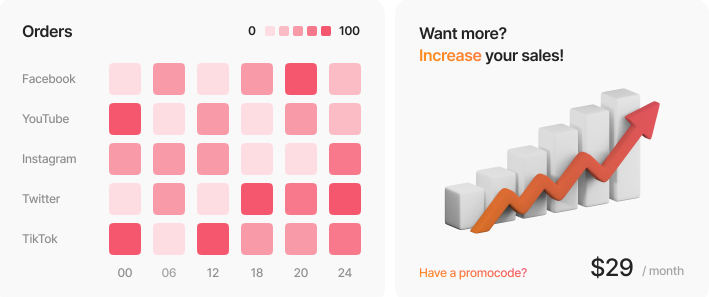
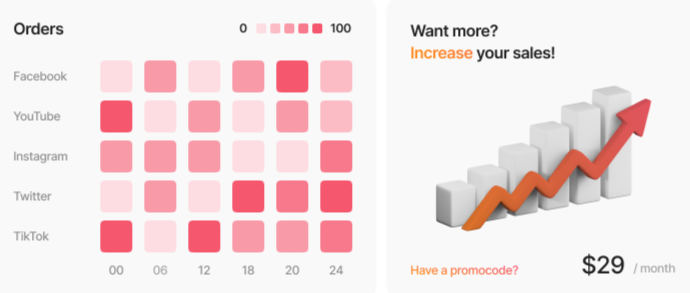
Added New Images

diff --git a/style.css b/style.css
@@ -10,7 +10,7 @@ nav {
   top: 0;
   left: 0;
   height: 100%;
-  width: 250px;
+  width: 300px;
   padding: 10px 14px;
   background-color: #fff;
   border-right: 1px solid rgba(0, 0, 0, 0.1);
@@ -19,28 +19,14 @@ nav .logo-name {
   display: flex;
   align-items: center;
 }
-nav .logo-image {
-  display: flex;
-  justify-content: center;
-  min-width: 45px;
-}
-nav .logo-image img {
-  width: 40px;
-  object-fit: cover;
-  border-radius: 50%;
-}
 nav .logo-name .logo_name {
-  font-size: 22px;
+  font-size: 24px;
   font-weight: 600;
   color: #333;
   margin-left: 14px;
 }
 nav .menu-items {
-  margin-top: 40px;
-  height: calc(100% - 90px);
-  display: flex;
-  flex-direction: column;
-  justify-content: space-between;
+  margin-top: 65px;
 }
 .menu-items li {
   list-style: none;
@@ -58,14 +44,8 @@ nav .menu-items {
   background-color: #232323;
 }
 .menu-items li a i {
-  font-size: 24px;
-  min-width: 45px;
-  height: 100%;
-  display: flex;
   padding-left: 15px;
   margin-right: 10px;
-  align-items: center;
-  justify-content: center;
   color: #707070;
 }
 .menu-items li a .link-name {
@@ -78,6 +58,7 @@ nav .menu-items {
   color: #fff;
 }
 
+/* Home Dashboard Section */
 section {
   padding: 0 20px;
 }
@@ -85,13 +66,8 @@ section {
   position: relative;
   background: #f5f5f5;
   min-height: 100vh;
-  width: calc(100% - 250px);
-  left: 250px;
-  transition: all 0.5s ease;
-}
-.sidebar.active ~ .home-section {
-  width: calc(100% - 60px);
-  left: 60px;
+  width: calc(100% - 300px);
+  left: 300px;
 }
 .home-section nav {
   display: flex;
@@ -101,8 +77,8 @@ section {
   display: flex;
   align-items: center;
   position: fixed;
-  width: calc(100% - 240px);
-  left: 240px;
+  width: calc(100% - 280px);
+  left: 280px;
   z-index: 100;
 }
 .home-section nav .search-box {
@@ -110,7 +86,7 @@ section {
   height: 55px;
   max-width: 550px;
   width: 100%;
-  margin: 0 20px;
+  margin: 0 40px;
 }
 nav .search-box input {
   height: 100%;
@@ -124,17 +100,11 @@ nav .search-box input {
 }
 nav .search-box .uil-search {
   position: absolute;
-  height: 40px;
-  width: 40px;
   left: 15px;
   top: 50%;
   transform: translateY(-50%);
-  border-radius: 4px;
-  line-height: 40px;
-  text-align: center;
   color: #707070;
   font-size: 22px;
-  transition: all 0.4 ease;
 }
 .home-section nav .profile-details {
   display: flex;
@@ -149,7 +119,7 @@ nav .profile-details img {
   width: 40px;
   border-radius: 50%;
   object-fit: cover;
-  border: 2px solid #e87d88;
+  border: 2px solid #fa5305;
 }
 nav .profile-details .admin_name {
   font-size: 15px;
@@ -204,13 +174,12 @@ nav .profile-details i {
 .home-content .box .indicator i {
   font-size: 25px;
   margin-right: 15px;
-  margin-top: 20px;
 }
 .uil-arrow-growth {
-  color: #e87d88;
+  color: #fa5305;
 }
 .highlight {
-  color: #e87d88;
+  color: #fa5305;
 }
 
 .data_row {
@@ -223,7 +192,7 @@ nav .profile-details i {
 }
 .product-launched {
   display: flex;
-  gap: 40px;
+  gap: 50px;
   align-items: center;
   background-color: #fff;
   border-radius: 16px;
@@ -241,7 +210,7 @@ nav .profile-details i {
 }
 .tran_details {
   display: flex;
-  gap: 25px;
+  gap: 50px;
   margin-top: 30px;
 }
 .tran_details i {
@@ -252,8 +221,8 @@ nav .profile-details i {
   height: 55px;
   min-width: 55px;
   border-radius: 50%;
-  color: #e87d88;
-  background-color: #d7d3d3bb;
+  color: #fa5305;
+  background-color: #edededbb;
 }
 .right-col {
   width: 55%;
@@ -264,4 +233,5 @@ nav .profile-details i {
 .right-col img {
   width: 100%;
   height: 400px;
+  border-radius: 16px;
 }

diff --git a/index.html b/index.html
@@ -9,12 +9,12 @@
     <title>Document</title>
   </head>
   <body>
+    <!-- Sidebar -->
     <nav>
       <div class="logo-name">
         <div class="logo-image">
           <img src="" alt="" />
         </div>
-
         <span class="logo_name">Logo</span>
       </div>
 
@@ -60,6 +60,7 @@
       </div>
     </nav>
 
+    <!-- Home Dashboard Content -->
     <section class="home-section">
       <nav>
         <div class="search-box">
